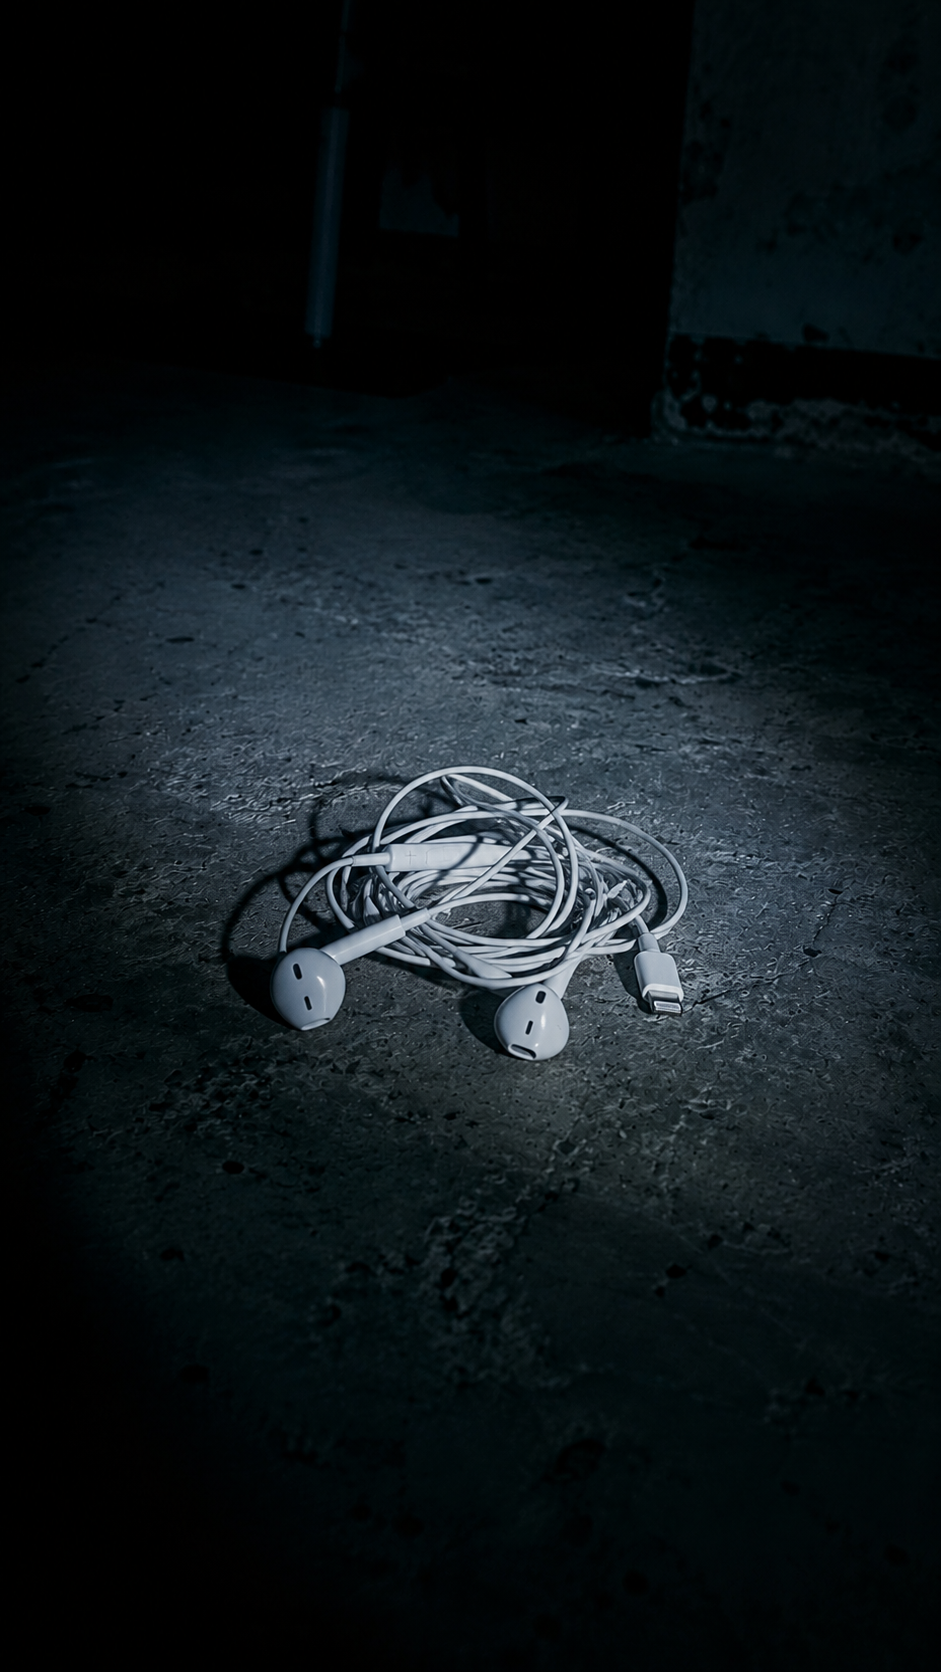
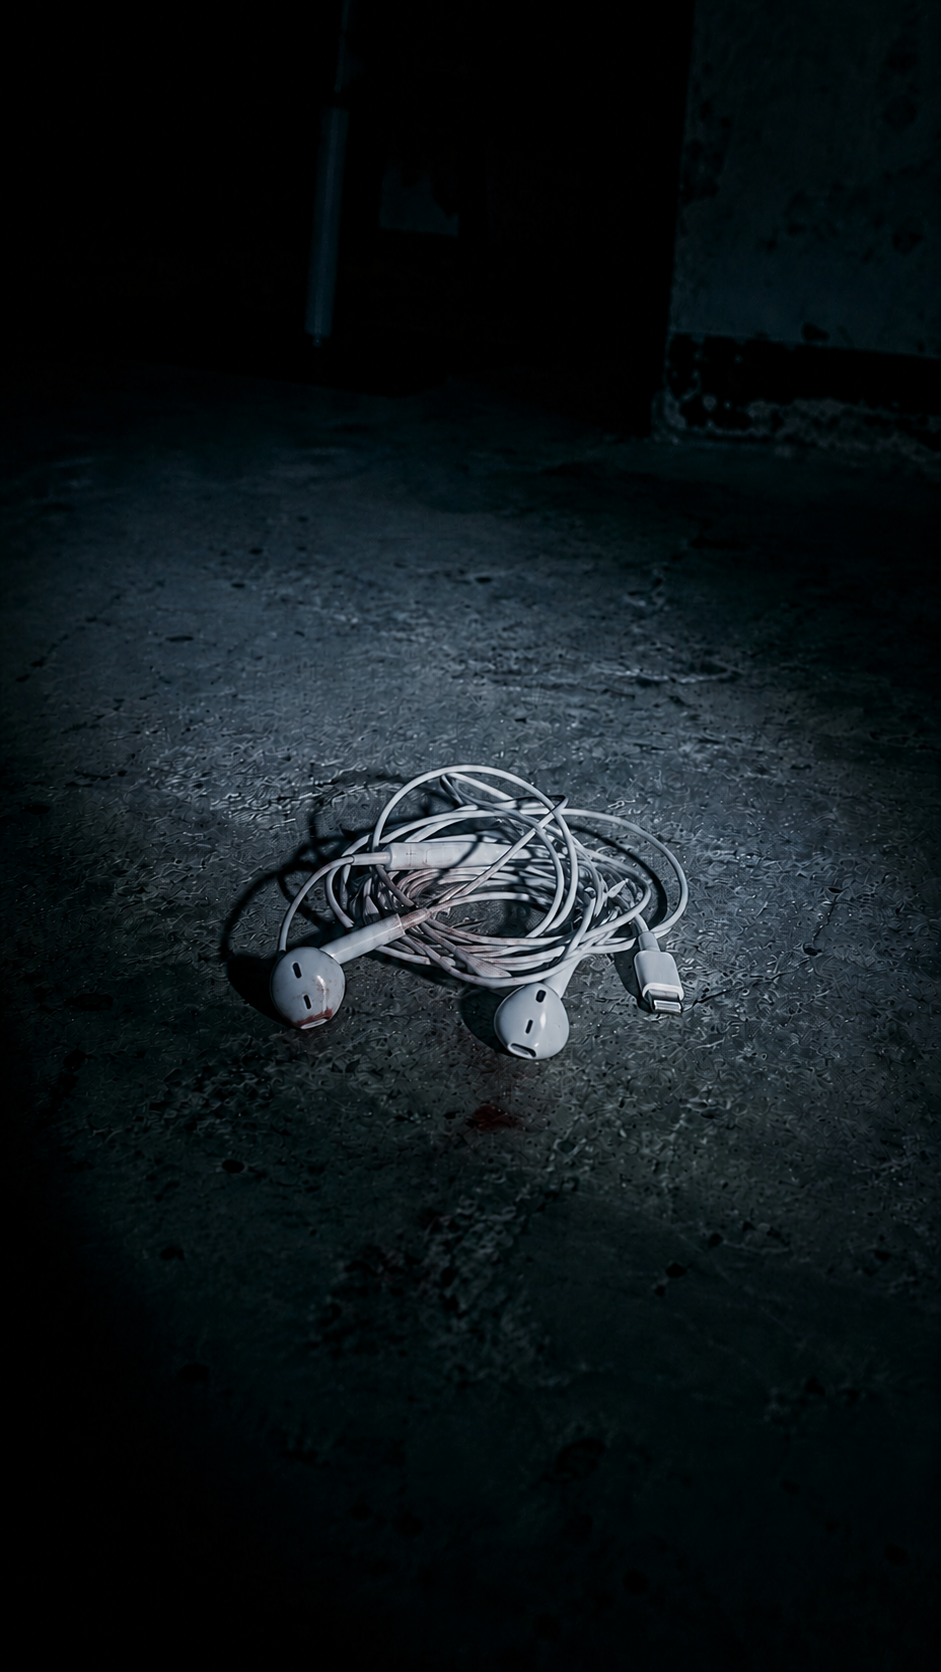
부계 이미지 수정, 2일차 스토리 두개 지움

Changed region(s): [[0.1541, 0.4354, 0.8937, 0.6842], [0.8629, 0.5287, 0.9245, 0.5598], [0.7396, 0.4354, 0.7705, 0.4665]]

diff --git a/DateManager.js b/DateManager.js
@@ -173,8 +173,6 @@ class DateManager {
       dailyStories.push(new Story(this.users["최지안"], jian2_3));
       dailyStories.push(new Story(this.users["최지안"], jian2_4));
       dailyStories.push(new Story(this.users["부계"], accountX2));
-      dailyStories.push(new Story(this.users["정수아"], jian2_1));
-      dailyStories.push(new Story(this.users["정수아"], jian2_2));
       dailyStories.push(new Story(this.users["정수아"], jian2_3));
       dailyStories.push(new Story(this.users["정수아"], jian2_4));
       dailyStories.push(new Story(this.users["이서준"], seojun2_1));